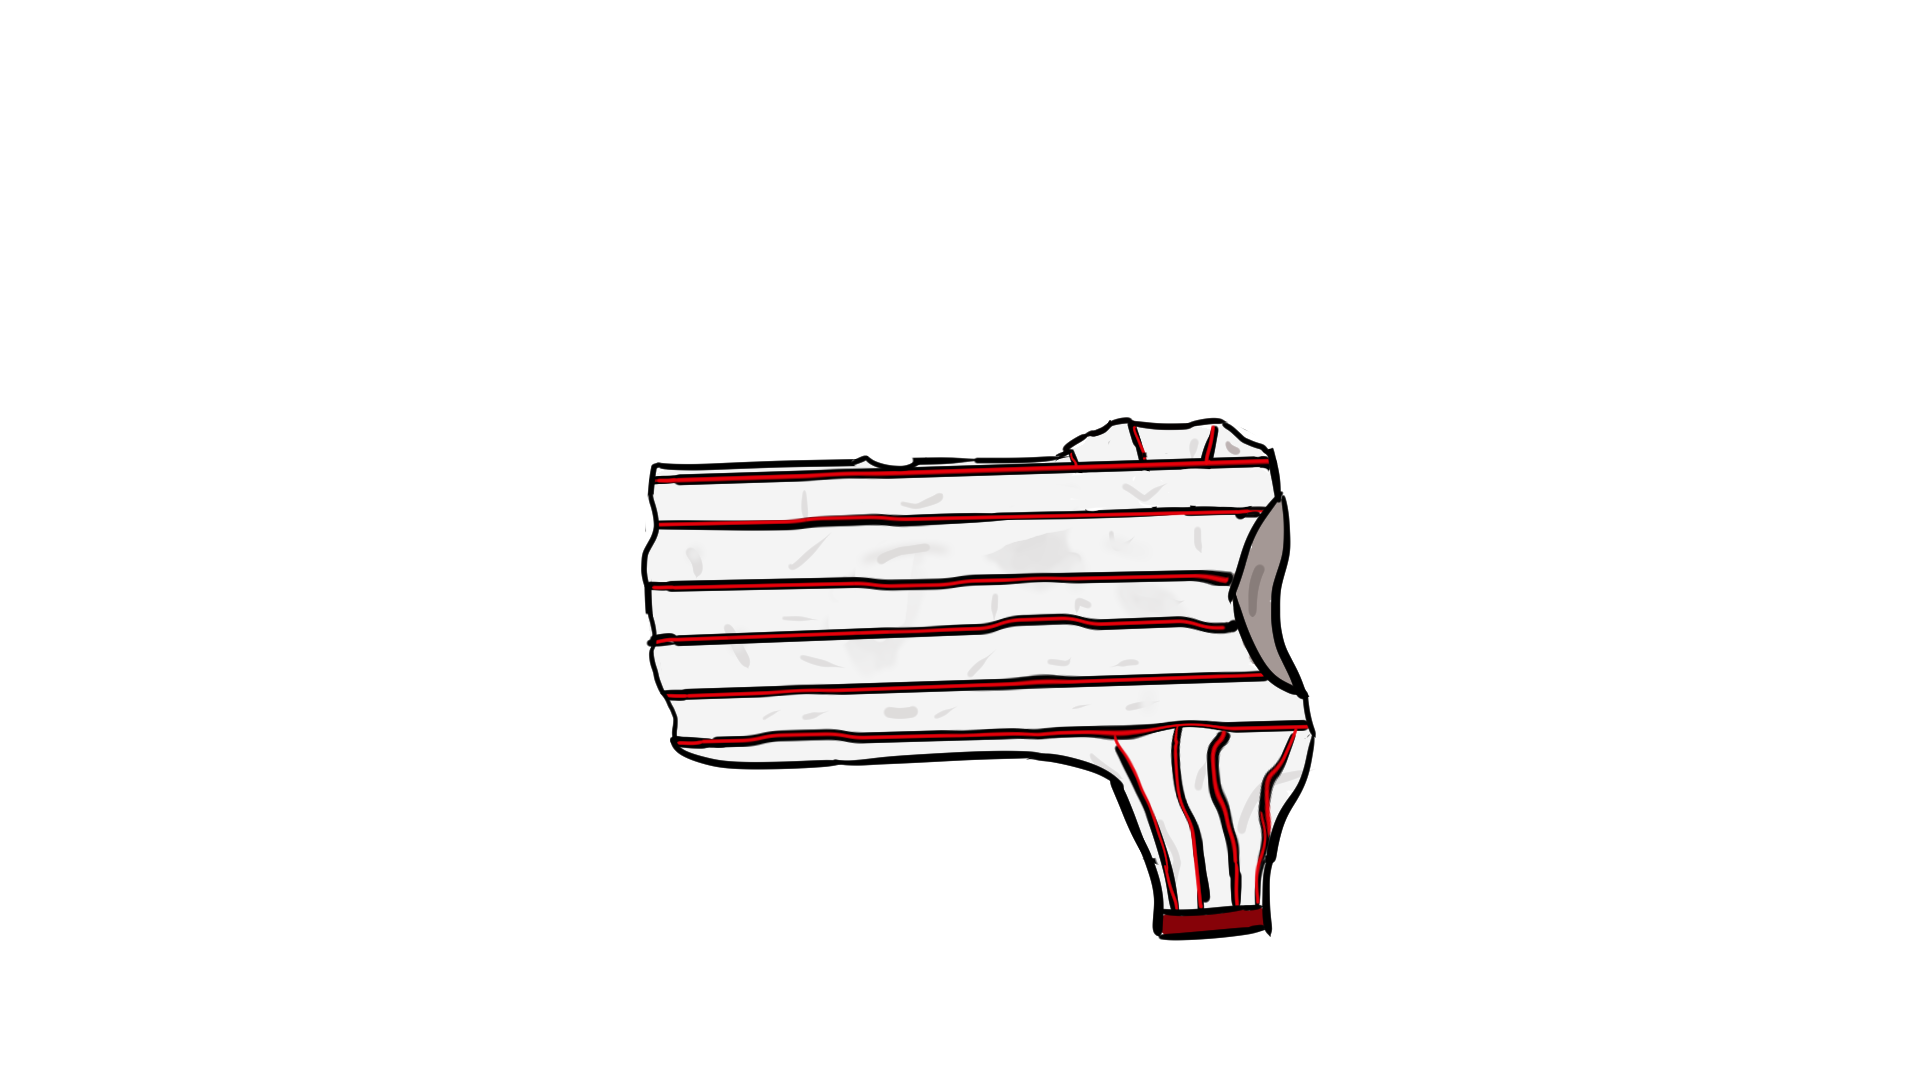
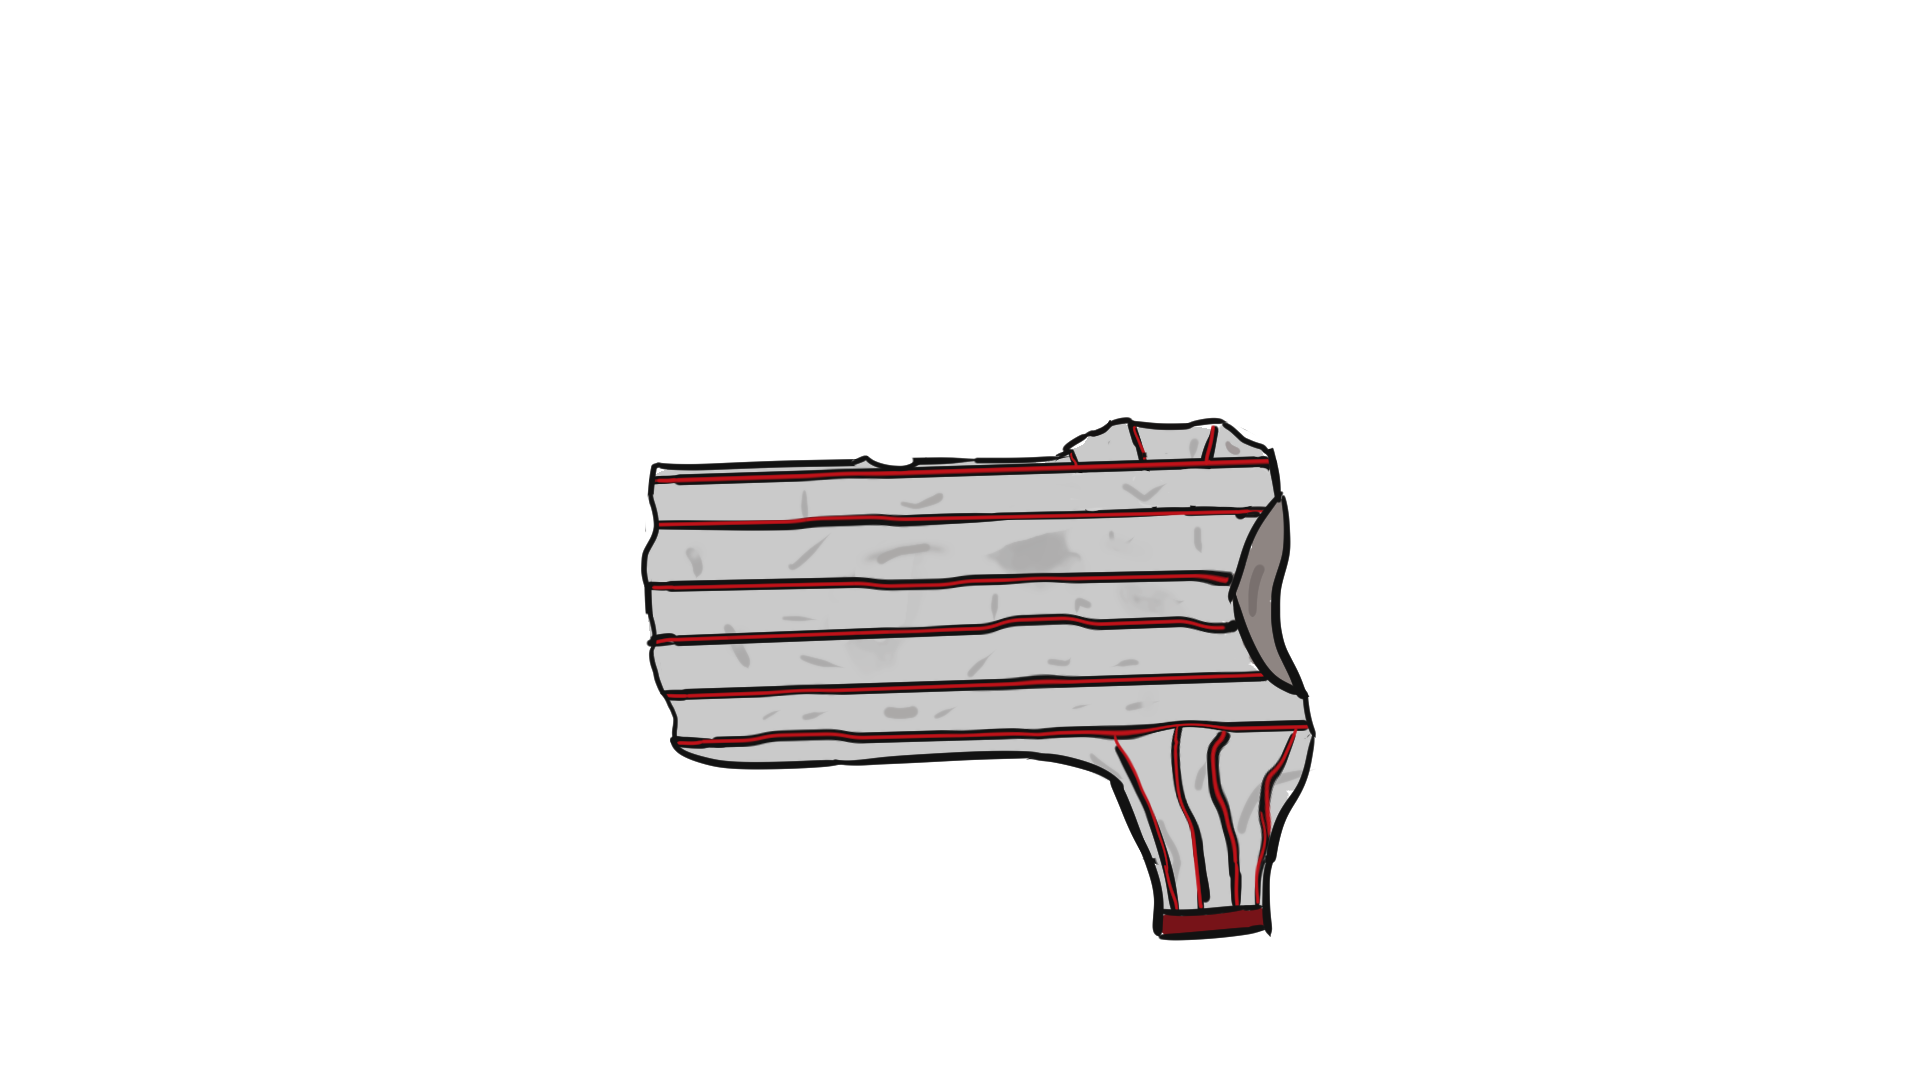
Finalize ironing scene

Changed region(s): [[0.3125, 0.3972, 0.6875, 0.8556]]

diff --git a/src/scenes/IroningScene.ts b/src/scenes/IroningScene.ts
@@ -1,9 +1,13 @@
-import { BaseScene } from "./BaseScene";
-import { NextButton } from "@/components/NextButton";
+import { BaseScrubScene } from "@/scenes/BaseScrubScene";
 
-export class IroningScene extends BaseScene {
+export class IroningScene extends BaseScrubScene {
 	private background: Phaser.GameObjects.Image;
-	private nextButton: NextButton;
+	private shoe: Phaser.GameObjects.Image;
+	private sparkles: Phaser.GameObjects.Image[];
+	private tool: Phaser.GameObjects.Image;
+	private text: Phaser.GameObjects.Text;
+
+	private numberIroned: number;
 
 	constructor() {
 		super({ key: "IroningScene" });
@@ -13,18 +17,115 @@ export class IroningScene extends BaseScene {
 		this.fade(false, 200, 0x000000);
 		this.cameras.main.setBackgroundColor(0x67e8f9);
 
-		this.background = this.add.image(this.CX, this.CY, "ironing_background");
+		this.numberIroned = 0;
 
-		this.nextButton = new NextButton(this);
-		this.nextButton.on("click", () => {
-			this.startScene("CutsceneScene", {
-				textureKey: "6_baseball",
-				nextScene: "BaseballScene",
-			});
+		/* Objects */
+
+		this.background = this.add.image(this.CX, this.CY, "ironing_background");
+		this.background.setTint(0xcbd5e1);
+
+		this.shoe = this.add.image(this.CX, this.CY, "ironing_shirt_ironed");
+
+		this.initDynamicTexture({
+			textureKey: "ironing_shirt",
+			brushKey: "soft_brush",
+			centerX: this.CX,
+			centerY: this.CY,
+			// debug: true,
+		});
+
+		this.sparkles = [];
+		this.sparkles.push(this.add.image(700, 800, "polish_sparkles"));
+		this.sparkles.push(this.add.image(1300, 350, "polish_sparkles"));
+		this.sparkles.forEach((sparkle) => sparkle.setAlpha(0));
+
+		this.tool = this.add.image(1500, 600, "ironing_iron");
+		this.tool.setDepth(100);
+
+		this.text = this.addText({
+			x: this.CX,
+			y: 0,
+			size: 60,
+			text: "Iron the shirts!",
+			color: "black",
+		});
+		this.text.setOrigin(0.5, 0.0);
+		this.text.setDepth(1000);
+
+		/* Animation */
+
+		this.shoe.y += 1000;
+		this.texture.y += 1000;
+		this.tweens.add({
+			targets: [this.shoe, this.texture],
+			duration: 1000,
+			ease: "Cubic.Out",
+			y: "-=1000",
 		});
 	}
 
 	update(time: number, delta: number) {
-		this.nextButton.update(time, delta);
+		const pointer = this.input.activePointer;
+		if (pointer.isDown && !this.isComplete) {
+			this.tool.x += (pointer.x - this.tool.x) / 2;
+			this.tool.y += (pointer.y - this.tool.y) / 2;
+		} else {
+			this.tool.x += (1500 - this.tool.x) / 5;
+			this.tool.y += (600 - this.tool.y) / 5;
+		}
+
+		this.sparkles.forEach((sparkle, index) =>
+			sparkle.setScale(
+				0.4 + 0.05 * Math.sin((8 * time) / 1000 + (Math.PI / 2) * index)
+			)
+		);
+	}
+
+	onComplete(): void {
+		this.numberIroned += 1;
+
+		this.tweens.add({
+			targets: this.sparkles,
+			duration: 3000,
+			ease: "Cubic.In",
+			alpha: { from: 1, to: 0 },
+		});
+
+		if (this.numberIroned >= 3) {
+			this.addEvent(2000, () => {
+				this.startScene("CutsceneScene", {
+					textureKey: "6_baseball",
+					nextScene: "BaseballScene",
+				});
+			});
+			return;
+		}
+
+		this.tweens.add({
+			targets: [this.shoe, this.texture],
+			delay: 500,
+			duration: 1000,
+			ease: "Cubic.In",
+			y: "+=1000",
+			onComplete: () => {
+				this.initDynamicTexture({
+					textureKey: "ironing_shirt",
+					brushKey: "soft_brush",
+					centerX: this.CX,
+					centerY: this.CY,
+					// debug: true,
+				});
+
+				this.texture.y += 1000;
+
+				this.tweens.add({
+					targets: [this.shoe, this.texture],
+					delay: 500,
+					duration: 1000,
+					ease: "Cubic.Out",
+					y: "-=1000",
+				});
+			},
+		});
 	}
 }
